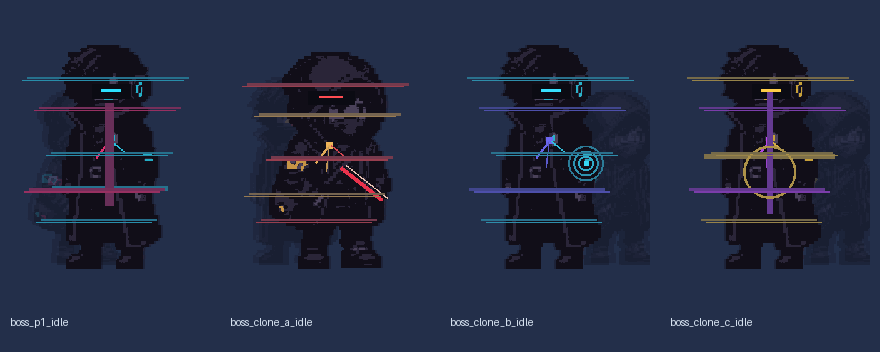
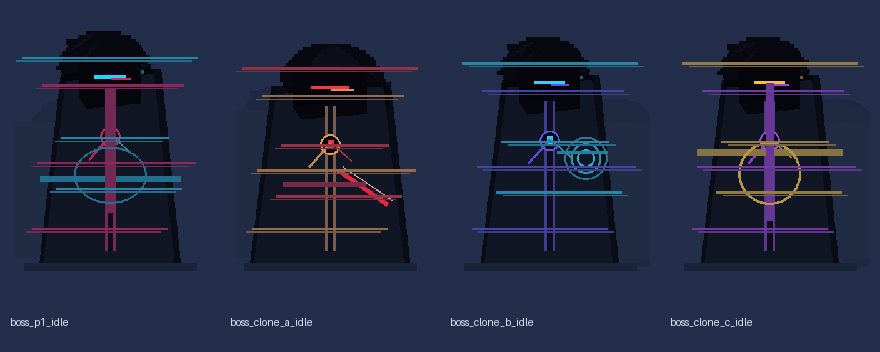
[보스] 체크포인트: P1 프로토타입 + 어두운 실루엣 이미지 v2 적용

diff --git a/Assets/_WIP/yongwoo/Editor/BossPrototypePrefabBuilder.cs b/Assets/_WIP/yongwoo/Editor/BossPrototypePrefabBuilder.cs
@@ -13,13 +13,20 @@ public static class BossPrototypePrefabBuilder
     private const string ProjectilePath = BossDir + "/BossProjectile.prefab";
     private const string BossPath = BossDir + "/Boss_P1_Prototype.prefab";
     private const string BossP1SpritePath = "Assets/_WIP/yongwoo/Art/Boss/Runtime_20260523/Sprites/boss_p1_idle.png";
+    private static readonly string[] BossSpritePaths =
+    {
+        BossP1SpritePath,
+        "Assets/_WIP/yongwoo/Art/Boss/Runtime_20260523/Sprites/boss_clone_a_idle.png",
+        "Assets/_WIP/yongwoo/Art/Boss/Runtime_20260523/Sprites/boss_clone_b_idle.png",
+        "Assets/_WIP/yongwoo/Art/Boss/Runtime_20260523/Sprites/boss_clone_c_idle.png"
+    };
 
     [MenuItem("Tools/Yongwoo/Boss/Rebuild P1 Prototype Prefab")]
     public static void RebuildP1PrototypePrefab()
     {
         EnsureFolder("Assets/_WIP/yongwoo/Prefabs", "Boss");
         CleanupTemporarySceneObjects();
-        ConfigureSpriteImporter(BossP1SpritePath);
+        ConfigureBossSpriteImporters();
 
         BossProjectile projectilePrefab = BuildProjectilePrefab();
         BuildBossPrefab(projectilePrefab);
@@ -228,6 +235,14 @@ public static class BossPrototypePrefabBuilder
     {
         Sprite sprite = AssetDatabase.LoadAssetAtPath<Sprite>(path);
         return sprite != null ? sprite : fallback;
+    }
+
+    private static void ConfigureBossSpriteImporters()
+    {
+        for (int i = 0; i < BossSpritePaths.Length; i++)
+        {
+            ConfigureSpriteImporter(BossSpritePaths[i]);
+        }
     }
 
     private static void ConfigureSpriteImporter(string path)

diff --git a/Assets/_WIP/yongwoo/STATUS.md b/Assets/_WIP/yongwoo/STATUS.md
@@ -66,6 +66,7 @@
 - 2026-05-23 세계관 분리: `세계관.md` 신규 — 게임 정체성/핵심 용어/등장 인물/in-game 인터페이스 의미/가치 대비/톤. `시나리오.md`에서 컨셉·등장 인물 섹션 제거하고 포인터로 대체. 문서 인덱스(세계관/시나리오/보스시나리오/보스전로직/STATUS/AGENTS) 정리됨
 - 2026-05-23 Unity 보스 P1 프로토타입 구현: `BossPatternDashSlash`(dashSpeed 100), `BossPatternDelayedBlast`/`BossBlastZone`, `BossPatternPredictShot` 추가. `BossPatternBase`는 파생 패턴 여러 개를 한 오브젝트에 붙일 수 있게 `[DisallowMultipleComponent]` 제거. `BossPatternRunner`는 player 미지정 시 `PlayerInteraction` 자동 탐색
 - 2026-05-23 보스 P1 프리팹 조립 완료: `Tools/Yongwoo/Boss/Rebuild P1 Prototype Prefab` 빌더와 `Assets/_WIP/yongwoo/Prefabs/Boss/Boss_P1_Prototype.prefab`, `BossProjectile.prefab` 생성. 프리팹 6슬롯은 단발/연사/확산/대시베기/지연장판/예측탄 순서로 검증. `safe_refresh --compile true`, Unity 콘솔 error 없음. 아직 씬 배치/PlayMode 전투 검증은 미실행
+- 2026-05-23 보스 이미지 초안 적용: 기존 NPC 적용본을 참고하되 재활용 실루엣이 보이지 않도록 어두운 데이터 코어/글리치 실루엣으로 재가공. `Art/Boss/Runtime_20260523/Sprites/`에 `boss_p1_idle`, `boss_clone_a_idle`, `boss_clone_b_idle`, `boss_clone_c_idle` 생성, QA 시트 `QA/boss_runtime_20260523_overview.png` 생성. 네 장 모두 Sprite 320x420, PPU 320, Point filter로 import. `Boss_P1_Prototype` Visual은 `boss_p1_idle` 참조
 
 ## 시간 제어 3층 구조 (중요)
 
@@ -138,7 +139,7 @@
 - [ ] 스테이지 전환 (씬 로드)
 - [x] 타이틀 화면 (목업 `Yongwoo_Title`)
 - [ ] 클리어 / 엔딩
-- [ ] 보스 스테이지 + 보스 *(P1 6패턴 Unity 프로토타입 프리팹 조립 완료. 다음은 씬 배치/PlayMode 튜닝, 이후 P2/P3 분열체와 전환 연출 구현)*
+- [ ] 보스 스테이지 + 보스 *(P1 6패턴 Unity 프로토타입 프리팹 + 어두운 보스 이미지 적용 완료. 다음은 씬 배치/PlayMode 튜닝, 이후 P2/P3 분열체와 전환 연출 구현)*
 - [ ] 히트 이펙트, 사운드 연동
 - [ ] 전체 씬 흐름 연결 (Title → 거주구역 → 뒷골목 → Stage → Ending)
 - [ ] 팀원 씬 머지 + 테스트

diff --git a/Assets/_WIP/yongwoo/보스전로직.md b/Assets/_WIP/yongwoo/보스전로직.md
@@ -261,6 +261,7 @@ P3 마지막 1타 명중 시:
 | P1 예측 3점 사격 | `BossPatternPredictShot` | 구현됨 |
 | P1 프로토타입 프리팹 | `Assets/_WIP/yongwoo/Prefabs/Boss/Boss_P1_Prototype.prefab` | 조립됨. 6패턴 슬롯 검증 완료 |
 | P1 프리팹 재생성 도구 | `Tools/Yongwoo/Boss/Rebuild P1 Prototype Prefab` | 구현됨 |
+| 보스 이미지 | `Assets/_WIP/yongwoo/Art/Boss/Runtime_20260523/Sprites/` | P1 본체 + P2/P3용 A/B/C 분열체 초안 생성. P1 프리팹에 `boss_p1_idle` 연결됨 |
 | P2/P3 분열체 본체 | `BossClone` 또는 `BossSplitBody` | 미구현 |
 | P2/P3 Active/Pressure/Reposition 조율 | `BossPhaseCoordinator` | 미구현 |
 | P3 레이저 벽 | `BossPatternLaserWall` | 미구현 |
